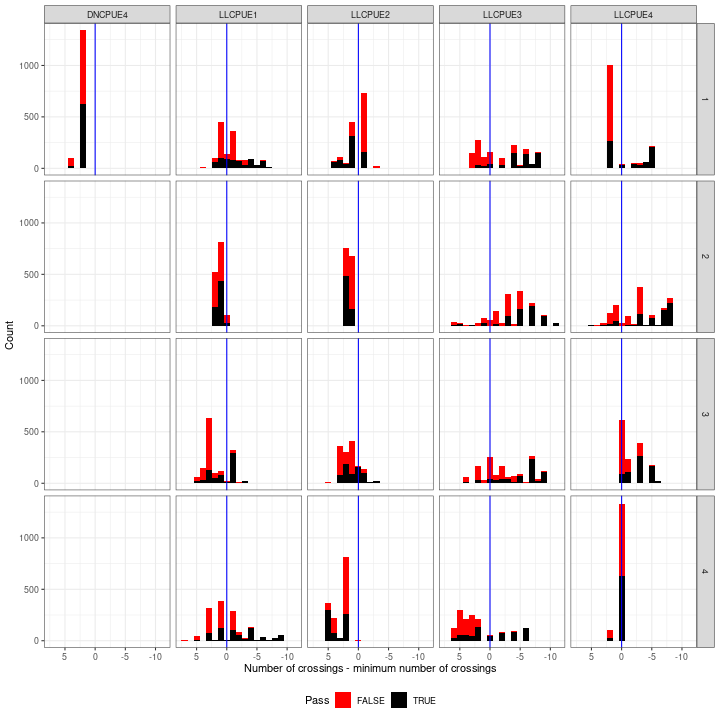
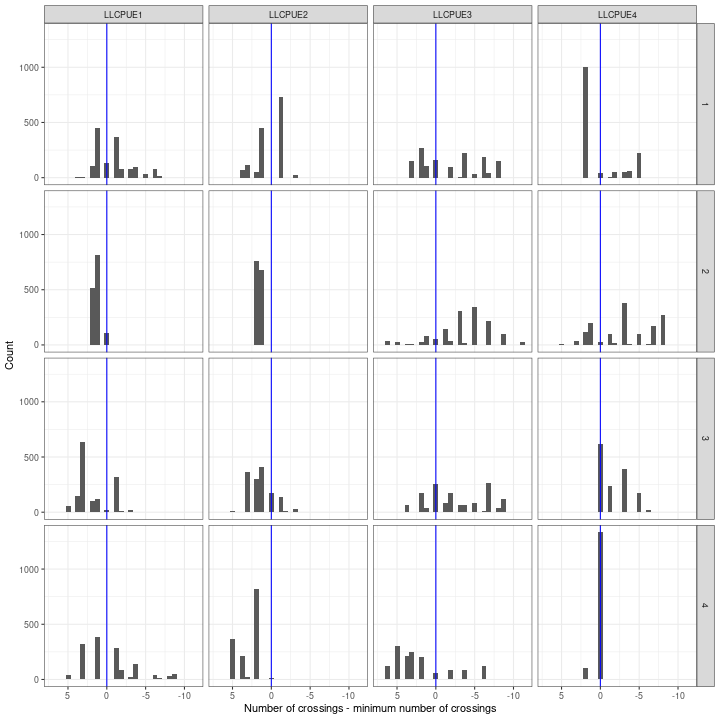
Updates from Overleaf

diff --git a/results.tex b/results.tex
@@ -7,19 +7,27 @@
 
    \item Kobe phase plots (figure \ref{fig:kobe}) showing $SSB/B_{MSY}$ and $F/F_MSY$ in the terminal year are shown for the main effects with estimation error approximated using a multivariate log-normal, (cyan points denote the median) in figure \ref{fig:kobe-main}, and the base case is compared to the full grid in figure \ref{fig:kobe-bg}. The base case only gives a X\% chance of being in the green quadrant ($SSB \gt SSB_{MSY}$ and $F \le F_{MSY}$) when estimation error is considered. Although only 1 main effects (M0202?) is in the red quadrant, X\% are in the red quadrant when estimation error is considered, while when model error is considered this increases to Y\%. 
    
-   \item Summary of Mohn's $\rho$ for the for the 1440 assessment models in the Indian Ocean albacore tuna grid, with main effects indicated by the vertical lines (Figure \ref{fig:mohn}). Four of the main effects fail the Mohn's $\rho$ test. There appears to be bi-modality with one mode centred on 0, i.e. some scenarios perform very well compared to the main effect and base case.
+   \item Summary of Mohn's $\rho$ for the for the 1440 assessment models in the Indian Ocean albacore tuna grid, with main effects indicated by the vertical lines (Figure \ref{fig:mohn}). Over half of the main effects fail the Mohn's $\rho$ test. There appears to be bi-modality with one mode centred on 0, i.e. some scenarios perform very well compared to the main effect and base case.
    
-   \item This shows that uncertainty is underestimated if only estimation error is considered. This implies over-fitting and a subsequent reduction in variance at the expense of bias. Figure \ref{fig:runs} therefore compares the runs tests based on the model residuals to the prediction residuals for the entire grid. The number of crossings (figure \ref{fig:runs-cross}) and the length of the longest run (figure \ref{fig:runs-long} and the MASE (figure \ref{fig:mase}). Most of the scenarios and indices pass the crossings test, while performance for the length of the longest run is poorer. Indices 2 and 3 perform best. The value of Mohn's $\rho$ does not appear to have an impact. 
+   \item This shows that uncertainty is underestimated if only estimation error is considered. This implies over-fitting and a subsequent reduction in variance at the expense of bias. 
    
-   \item The results for MASE from the model-free hindcast are different from the runs tests, in that Mohn's $\rho$ does appera to have an effect, i.e. a scenario and index has a value of $MASE \gt 1$ it also tends to have lower prediction skill.  While the relative performance of indices 2 and 3 is similar to the runs tests, index 4 now has good performance.
+   %Figure \ref{fig:runs} therefore compares the runs tests based on the model residuals to the prediction residuals for the entire grid. The number of crossings (figure \ref{fig:runs-cross}) and the length of the longest run (figure \ref{fig:runs-long} and the MASE (figure \ref{fig:mase}). Most of the scenarios and indices pass the crossings test, while performance for the length of the longest run is poorer. Indices 2 and 3 perform best. The value of Mohn's $\rho$ does not appear to have an impact. 
    
-   \item The p-values by scenarios for MASE and the runs test are compared to Mohn's $\rho$ in figure \ref{fig:wts}. These show that in the sceanrios with good prediction skill indices perform better, based on MASE. The runs test does not appear to be an indicator of prediction skill, potentially due to overfitting. 
+   %\item The results for MASE from the model-free hindcast are different from the runs tests, in that Mohn's $\rho$ does appera to have an effect, i.e. a scenario and index has a value of $MASE \gt 1$ it also tends to have lower prediction skill.  While the relative performance of indices 2 and 3 is similar to the runs tests, index 4 now has good performance.
+   
+   %\item The p-values by scenarios for MASE and the runs test are compared to Mohn's $\rho$ in figure \ref{fig:wts}. These show that in the sceanrios with good prediction skill indices perform better, based on MASE. The runs test does not appear to be an indicator of prediction skill, potentially due to overfitting. 
 
    \item A Regression tree identifying factors that influence Mohn's $\rho$ for the 1440 assessment models is shown in Figure \ref{fig:tree}. This also shows the time series of SSB (\ref{fig:tree-b}), production functions (\ref{fig:tree-pf}), and time series of surplus production (\ref{fig:tree-sp}). The first split is on natural mortality of the adults, if this is equal to 0.4 then the Mohn's $\rho$ test is failed, otherwise it is passed. These, as seen above have lower estimated values of $B_{MSY}$ and $MSY$. The two exceptions are for M=0.3 and CPUE = 0.2 \& 0.3 when it fails, and M=0.4 and CPUE=0.5 \& ESS = 100 when it passes. In other word the biggest impact on prediction skill is M, since high M results in a large productive stock which is not supported by the hindcast. High M is only plausible if you ignore the CPUE and fit to the length data. 
    
-  \item Weighted phase plots are presented in figure \ref{fig:phase-wt} for equal, simple skill based, and AIC weighting. These are for targets (Kobe \ref{fig:kobe-wt}) and limits (Majuro \ref{fig:majuro-wt}). 
+   \item The log likelihoods, AIC and number of parameters are shown in figure \ref{fig:aic}.
+   
+   \item Developing an Observation error model is also a part of conditioning an operating model. Therefore figure \ref{fig:mase} shows the indices of abundance (\ref{fig:mase-u}) and their values of MASE (\ref{fig:mase-score}). Many of the indices have gaps or do not cover the entire period and so were not considered. Of the remaining indices index 3 for quarters 2 and 3 were considered as these cover the main area of distribution of the stock and had the best values of MASE for all indices \item Figure \ref{fig:xxx}.
+   
+   \item Figure \ref{fig:xxx} shows the relationship between MASE and Mohn's $\rho$, broken up by $M$. The bimodality is driven by M, i.e. MASE increases with M of adults. To explore the impact of bias in the index the results were also broken out by catchability; MASE  improves if a trend in catchability is assumed. 
+   
+  %\item Weighted phase plots are presented in figure \ref{fig:phase-wt} for equal, simple skill based, and AIC weighting. These are for targets (Kobe \ref{fig:kobe-wt}) and limits (Majuro \ref{fig:majuro-wt}). 
 
-  \item Figure \ref{ref:grid} summarises a variety of summary metrics by adult M and steepness for Mohn's $\rho$. $SSB/B_{MSY}$ (\ref{fig:grid-bmsy}), $B_{lim}$ (\ref{fig:grid-blim}), $F/F_{MSY}$ (\ref{fig:grid-fmsy}), $r$ (\ref{fig:grid-r}), $K$, (\ref{fig:grid-k}), $p$, (\ref{fig:grid-p}), $sd(sp)$, (\ref{fig:grid-sp}), and Population doubling time (\ref{fig:grid-dt}). There is some modality due to catchability, particulary in current biomass status and $K$.  Again the biggest impact is adult M. 
+  %\item Figure \ref{ref:grid} summarises a variety of summary metrics by adult M and steepness for Mohn's $\rho$. $SSB/B_{MSY}$ (\ref{fig:grid-bmsy}), $B_{lim}$ (\ref{fig:grid-blim}), $F/F_{MSY}$ (\ref{fig:grid-fmsy}), $r$ (\ref{fig:grid-r}), $K$, (\ref{fig:grid-k}), $p$, (\ref{fig:grid-p}), $sd(sp)$, (\ref{fig:grid-sp}), and Population doubling time (\ref{fig:grid-dt}). There is some modality due to catchability, particulary in current biomass status and $K$.  Again the biggest impact is adult M. 
 
 \end{itemize}
 

diff --git a/figures.tex b/figures.tex
@@ -29,38 +29,21 @@
         \caption{Kobe phase plots showing spawning biomass ($B$) and fishing mortality ($F$) relative to $MSY$ target reference points. Within model uncertainty was approximating using multivariate log-normal distribution derived from Hessian matrix (MVLN) with cyan points denoting the median}\label{fig:kobe}
 \end{figure}
 
+
+
+
 \clearpage
 \newpage
 \begin{figure}[ht!]\centering\includegraphics[width=0.75\textwidth]{figures/mohn3-1.png}  \caption{Summary of Mohn's $\rho$ for the for the 1440 assessment models in the Indian Ocean albacore tuna grid, with main effects indicated by the vertical lines.} 
 \label{fig:mohn}       
 \end{figure}
 
-\begin{figure}
-    \begin{subfigure}[a]{0.35\textwidth}
-    \includegraphics[width=\linewidth]{figures/run-cross-1.png}
-    \caption{Number of crossings - minimum expected number of crossings; note reversed x-axis.}
-    \label{fig:runs-cross} 
-    \end{subfigure}%
-    \begin{subfigure}[b]{0.35\textwidth}
-    \includegraphics[width=\linewidth]{figures/run-long-1.png}
-    \caption{Longest run - maximum expected run length.}
-    \label{fig:runs-long}
-    \end{subfigure}%
-    \begin{subfigure}[c]{0.35\textwidth}
-    \includegraphics[width=\linewidth]{figures/mase-1.png}
-    \caption{MASE.}
-    \label{fig:mase}
-    \end{subfigure}%
- 
-\caption{}\label{fig:runs}
-\end{figure}
-
 
 %\begin{figure}[ht!]\centering\includegraphics[width=0.75\textwidth]{figures/cf-1.png} \caption{Summary of weighting diagnostics.}\label{fig:wts} \end{figure}
 
-\begin{figure}[ht!]\centering\includegraphics[width=0.75\textwidth]{figures/ggpair-1.png} \caption{Correlations between weighting diagnostics.}
-\label{fig:wts}       
-\end{figure}
+%\begin{figure}[ht!]\centering\includegraphics[width=0.75\textwidth]{figures/ggpair-1.png} \caption{Correlations between weighting diagnostics.}
+%\label{fig:wts}       
+%\end{figure}
 
 \newpage
 \begin{figure}[!ht]
@@ -95,6 +78,8 @@
 \end{figure}
 
 
+\begin{figure}[ht!]\centering\includegraphics[width=0.75\textwidth]{figures/aic-1.png} \caption{AIC}\label{fig:aic} \end{figure}
+
 \begin{figure}
         \begin{subfigure}[b]{0.5\textwidth}
                 \includegraphics[width=\linewidth]{figures/kobe-mohn3-2.png}
@@ -113,6 +98,7 @@
 
 %\begin{figure}[ht!]\centering\includegraphics[width=1\textwidth]{figures/param-box-mohn3-1.png}\caption{Summary statistics, will re-do for $F/F_{MSY}$, $B/B_{MSY}$, $r$, $K$, $p$ and $sd(sp)$, and population doubling time.}\label{fig:smry}\end{figure}
 
+\iffalse
 \newpage
 \begin{figure}[!ht]
 	\centering
@@ -164,11 +150,23 @@
 	\caption{}
 	\label{ref:grid}
 \end{figure}
-
-\iffalse
-\begin{figure}[ht!]\centering\includegraphics[width=0.75\textwidth]{figures/pf-1.png} 
-\caption{Surplus Production by steepness and mature natural mortality}
-\label{fig:sp}       
-\end{figure}
 \fi
+
+
+\begin{figure}
+        \begin{subfigure}[b]{0.5\textwidth}
+           \includegraphics[width=\linewidth]{figures/cpue.png}
+                \caption{CPUE}
+                \label{fig:mase-u}
+        \end{subfigure}%
+                \begin{subfigure}[b]{0.5\textwidth} \includegraphics[width=\linewidth]{figures/mase-1.png}
+                \caption{MASE}
+                \label{fig:mase-score}
+        \end{subfigure}%
+        \caption{}\label{fig:mase}
+\end{figure}
+
+
+\begin{figure}[ht!]\centering\includegraphics[width=0.75\textwidth]{figures/xxx-1.png} \caption{mmmm.}\label{fig:xxx} \end{figure}
+
 

diff --git a/main.tex b/main.tex
@@ -66,9 +66,8 @@ The paper addressed the topics in the ICES Theme session on model error: namely
 \begin{itemize}
     \item Use the full grid of IOTC Albacore to pose a procedure for developing and screening OMs.
     \item The three main criteria for accepting a OM when conditioned using a stock assessment paradigm are i) does someone want it included; ii) does it fit the data; and iii) does it describe the dynamics, i.e. does it have prediction skill?
-    \item The weighting criteria of Kell and Levontin and Maunder et al., fall into three categories i) expert opinion ii) goodness of fit; and iii) plausibility. The total number of metrics used for weighting should be minimised, complementary and nonredundant. Therefore, for i) we argue for the use of elicitation since the biggest weighting factor is whether a model is chosen in the first place; ii)use runs tests to check the fit, and prediction residuals to check for overfitting; and  iii) conduct a hindcast to estimate simple prediction skill. 
-    \item When developing the design for ensembles or OMs first it is necessary to choose a base case and then the main effect for consideration
-    \item Once the main effects are chosen the next step is to agree on interactions. A problem here is that hypotheses are likely to be confounded e.g. i) is High M and low steepness realistic? ii) relative weighting of ESS and CPUE CV; and iii) dome shaped selection or senescence.
+    \item Weighting criteria therefore fall into three categories i) expert opinion ii) goodness of fit; and iii) plausibility. The total number of metrics used for weighting should be minimised, complementary and non-redundant. Therefore, for i) we argue for the use of elicitation since the biggest weighting factor is whether a model is chosen in the first place; ii) use runs tests to check the fit, and prediction residuals to check for over-fitting; and  iii) conduct a hindcast to estimate simple prediction skill. 
+    \item When developing the design for ensembles or OMs first it is necessary to choose a base. Once the main effects are chosen the next step is to agree on interactions. A problem here is that hypotheses are likely to be confounded e.g. i) is High M and low steepness realistic? ii) relative weighting of ESS and CPUE CV; and iii) dome shaped selection or senescence.
 \end{itemize}
 
 \newpage
